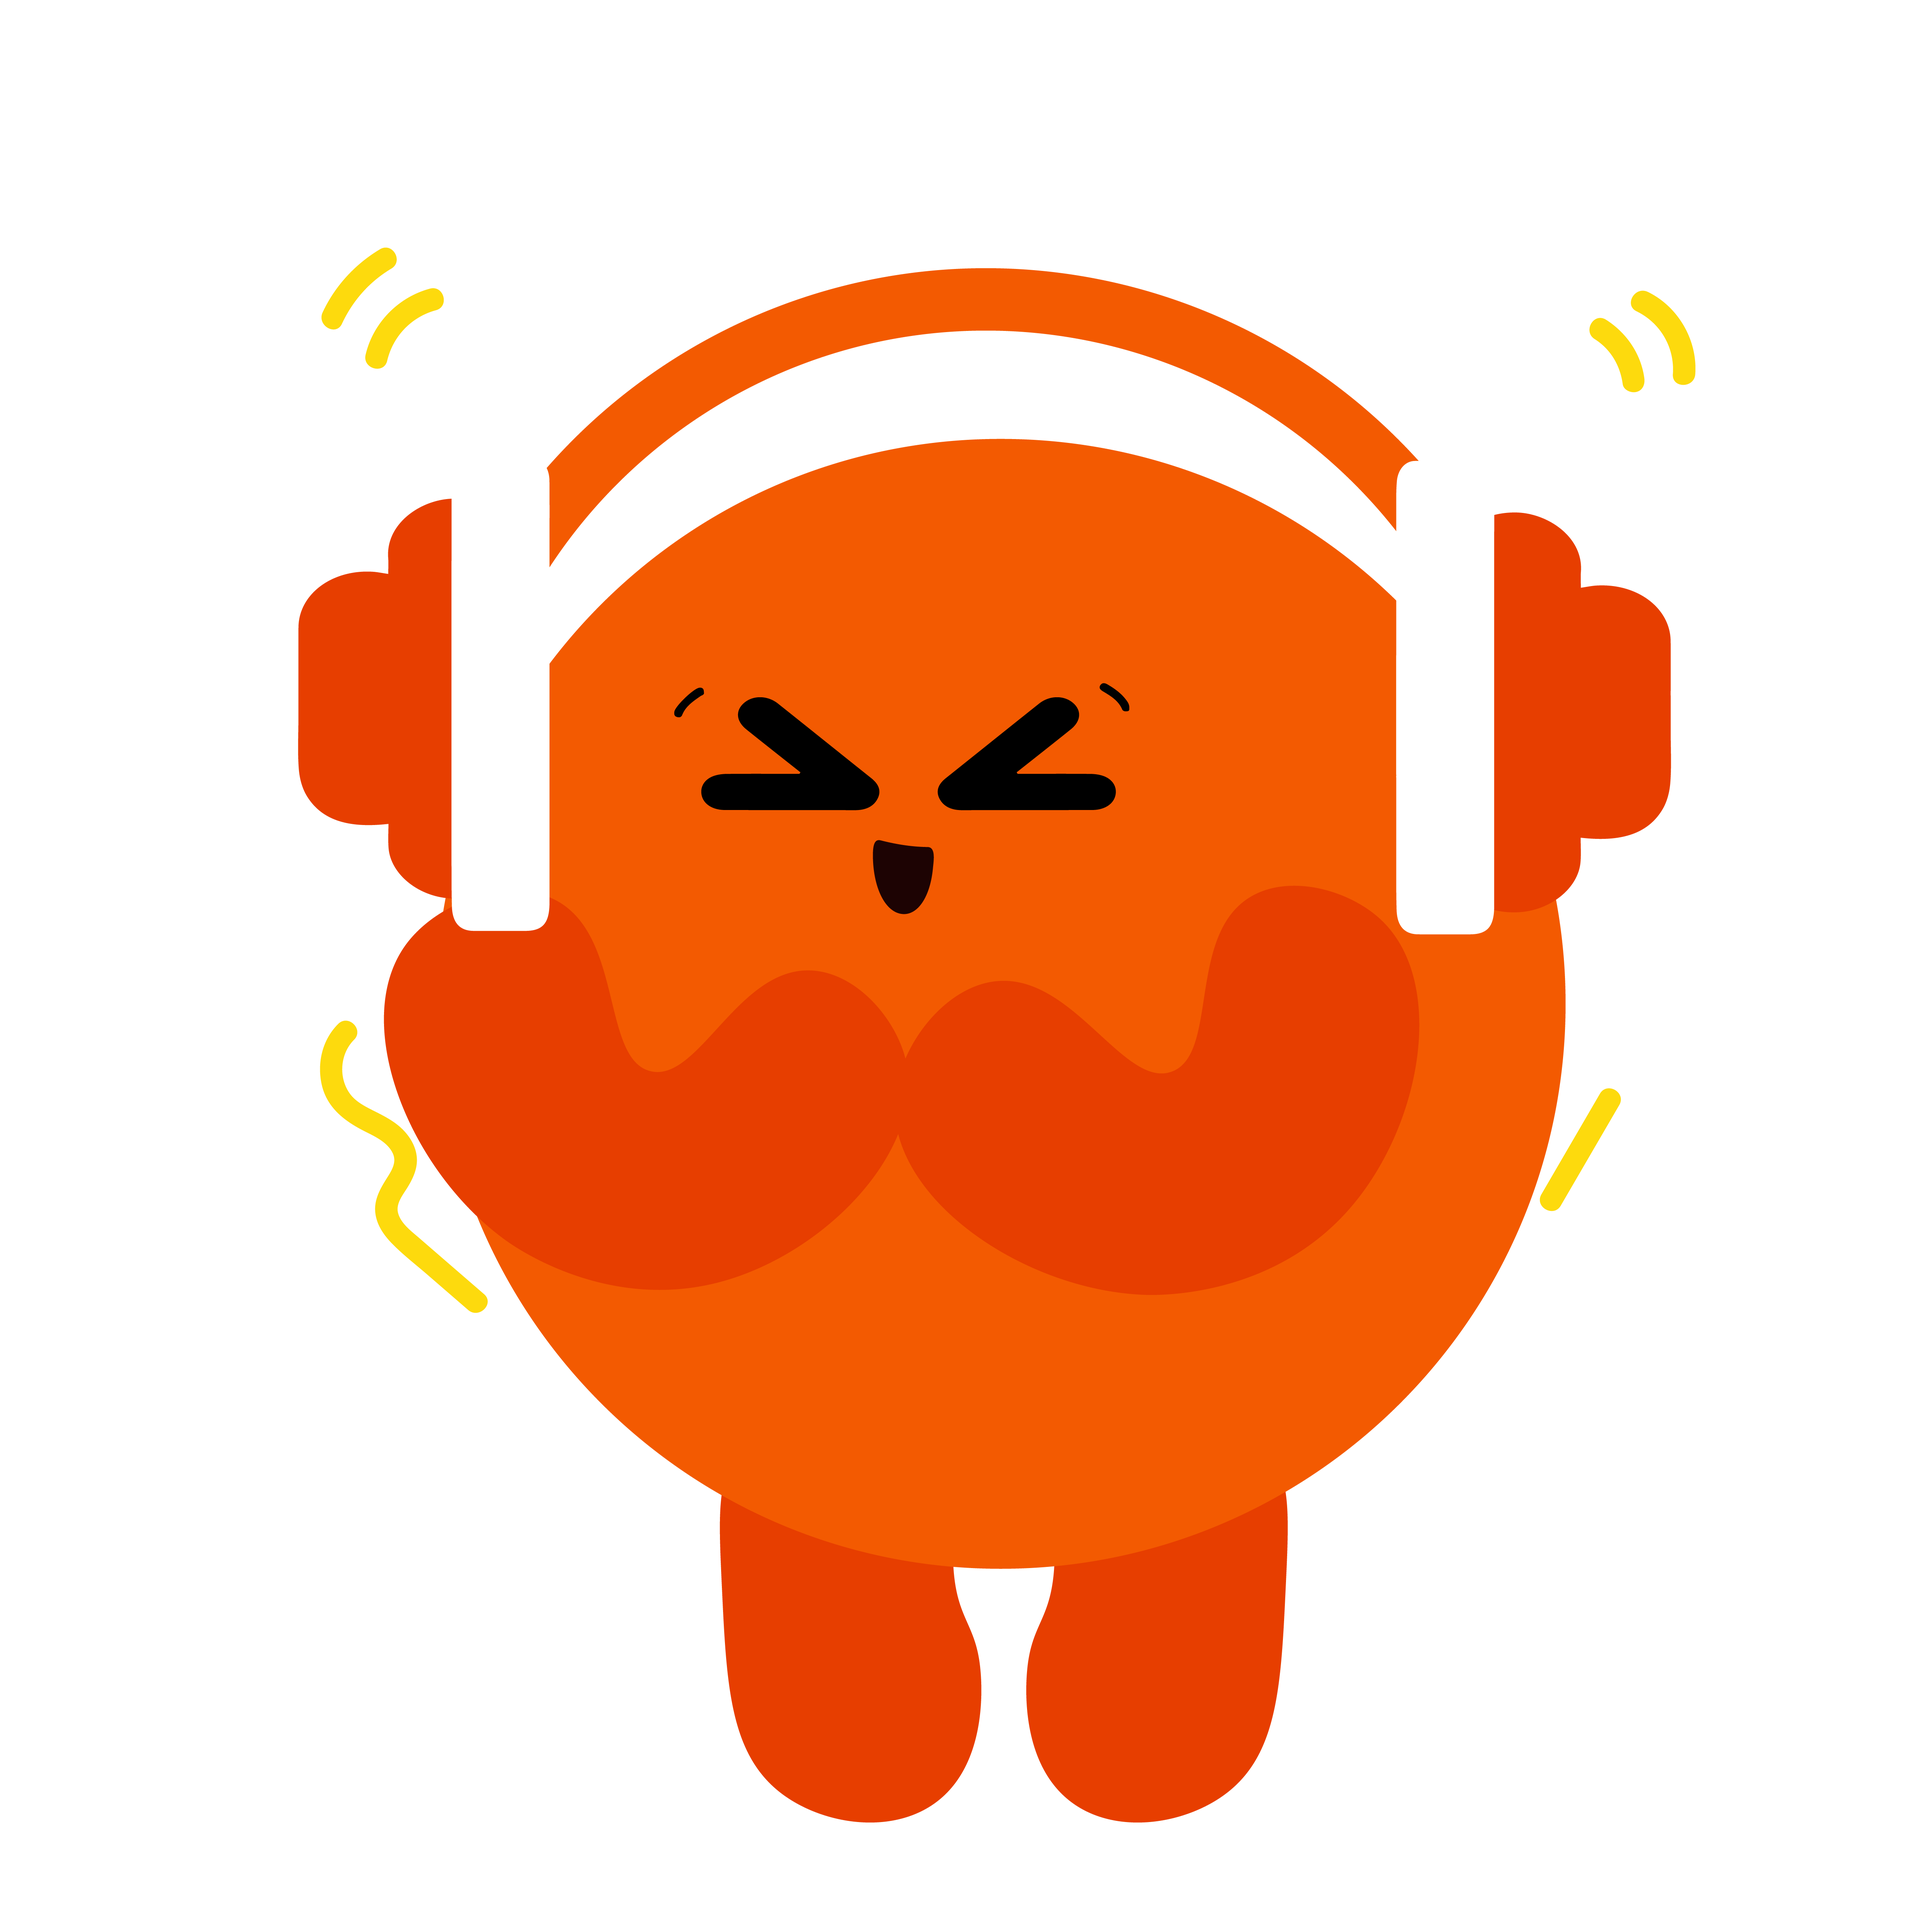
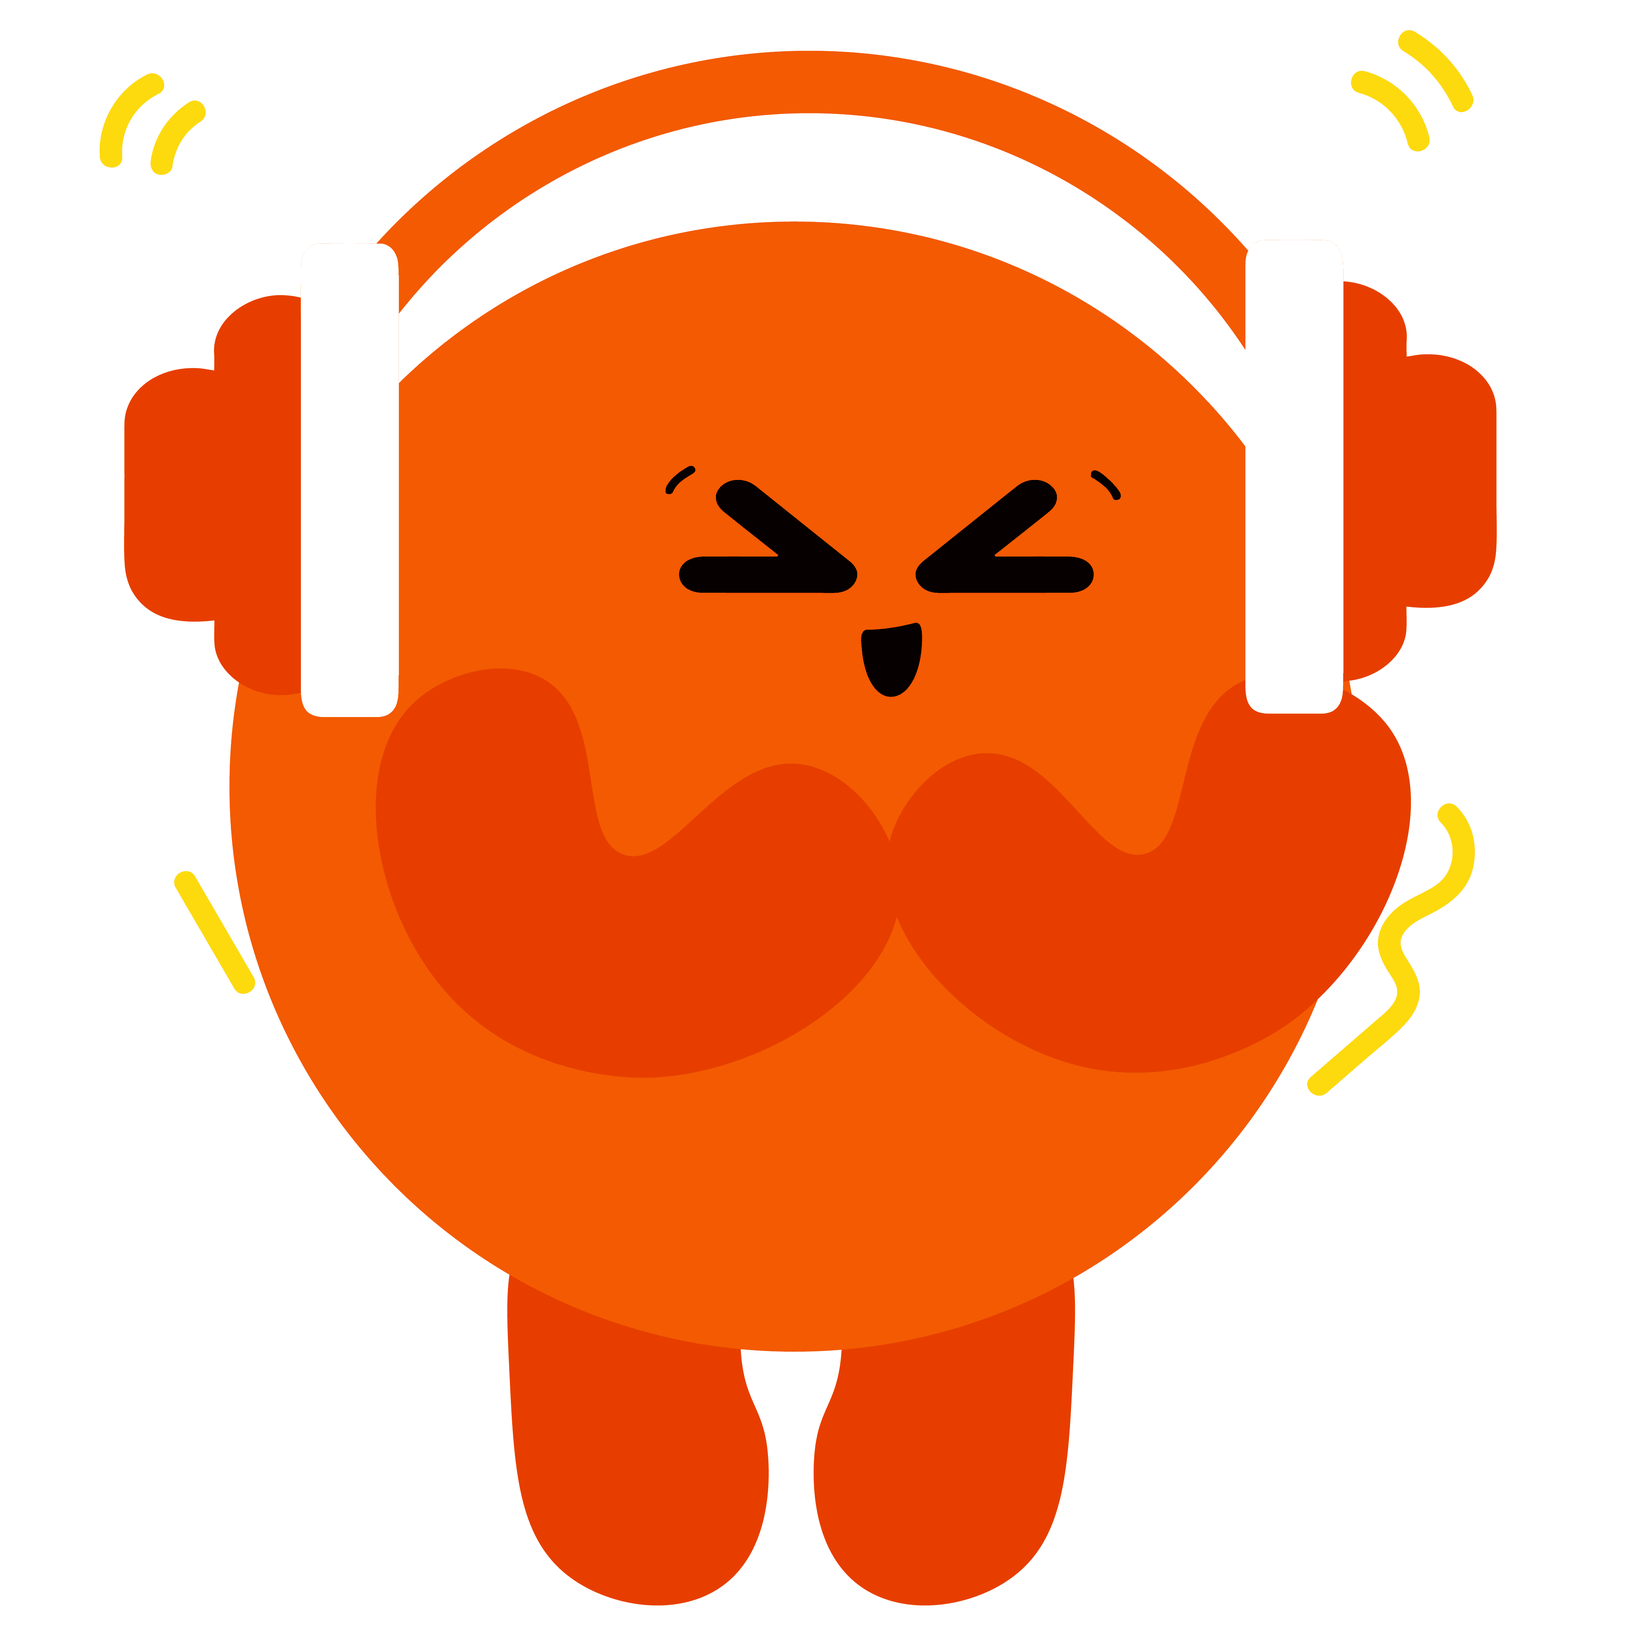
compress image

diff --git a/css/style.css b/css/style.css
@@ -317,7 +317,7 @@ img#imo {
 img#hacco {
   bottom: 0;
   left: 0;
-  transform: translate(-35%, 35%) scaleX(-1);
+  transform: translate(-35%, 35%);
 }
 img#techno {
   bottom: 0;
